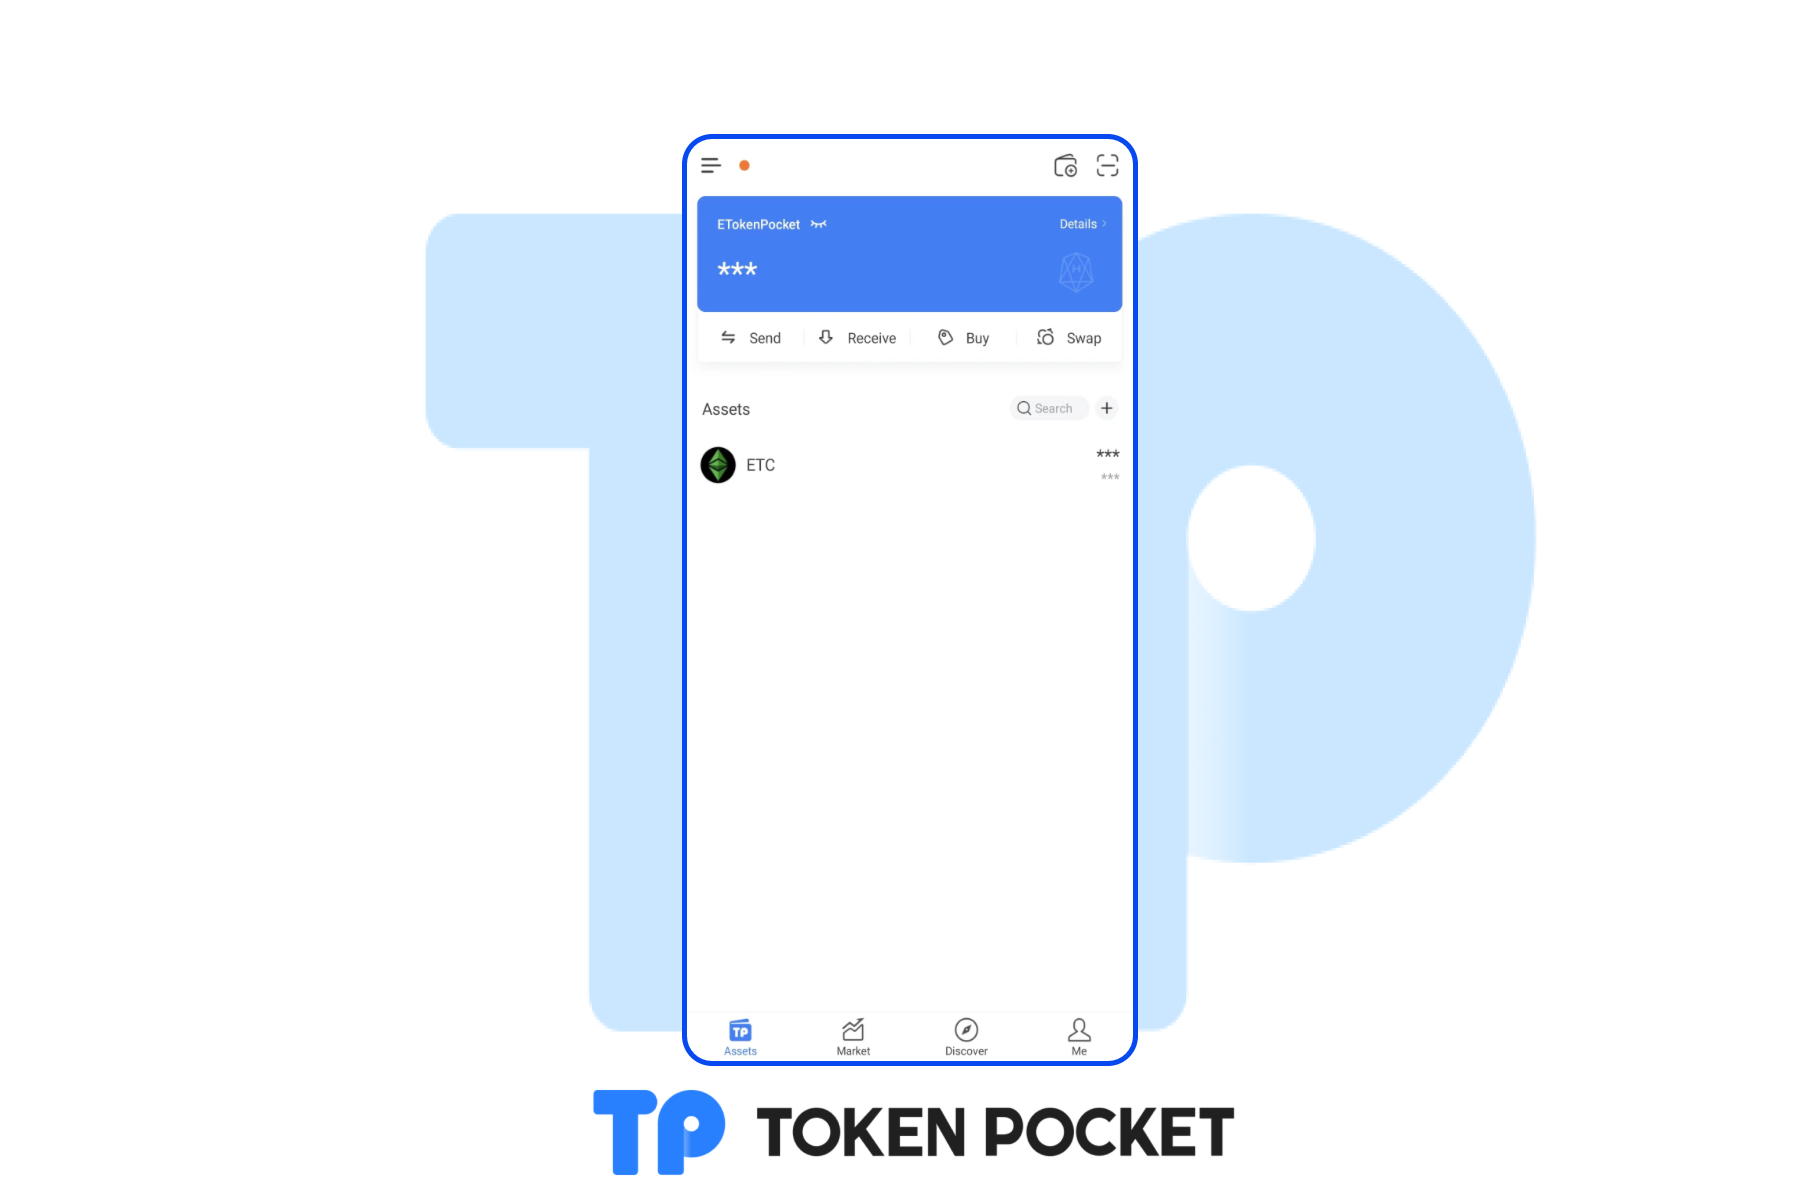
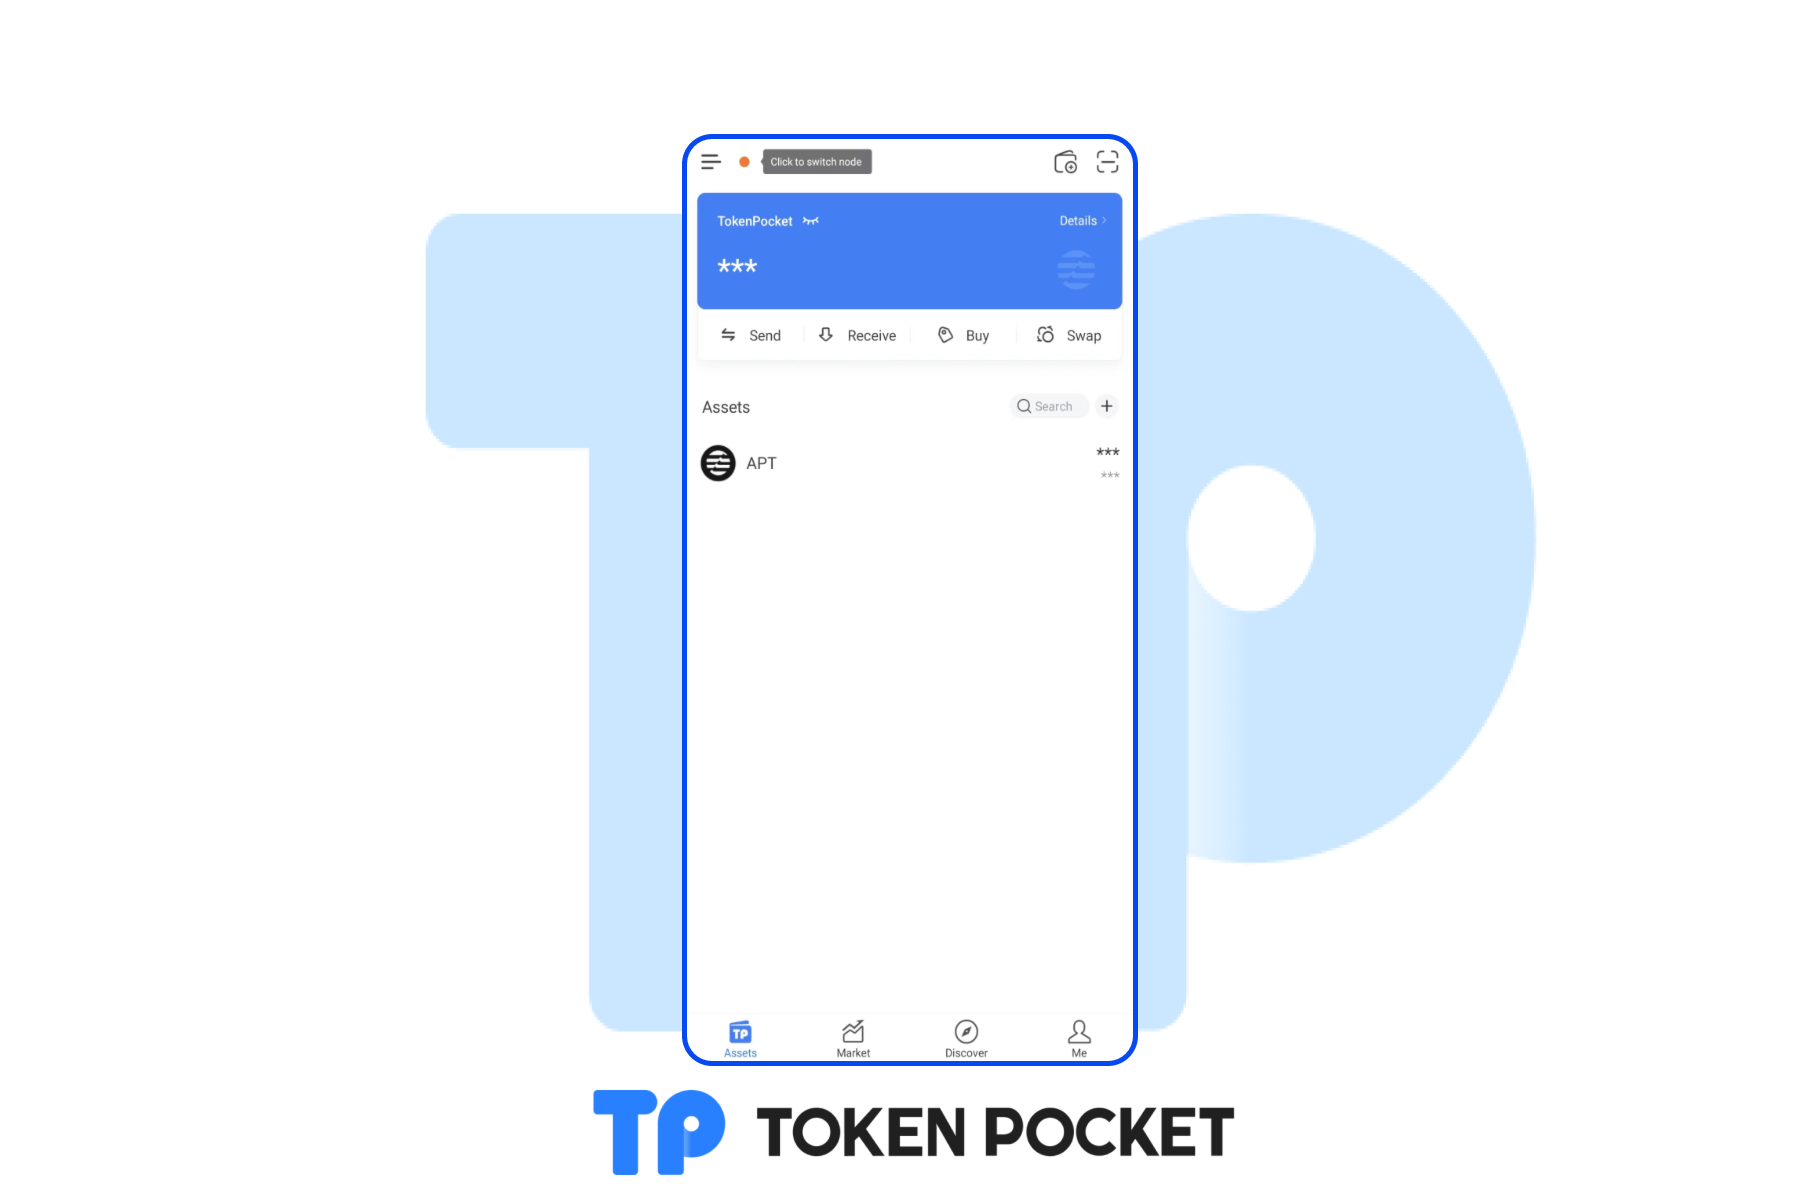
GitBook: [#845] No subject

diff --git a/wallet-operation/how-to-create-a-wallet/aptos.md b/wallet-operation/how-to-create-a-wallet/aptos.md
@@ -1,0 +1,41 @@
+# Aptos Use Guide
+
+## **How to create an** Aptos **wallet in TokenPocket?** <a href="#how-to-create-an-etc-wallet-in-tokenpocket" id="how-to-create-an-etc-wallet-in-tokenpocket"></a>
+
+1. Open TokenPocket APP, click the pattern on the upper left corner and switch the wallet network, select Aptos, click **\[Add Wallet]** and click **\[Create Wallet]**;
+
+<figure><img src="../../.gitbook/assets/aptos EN1 1.png" alt=""><figcaption></figcaption></figure>
+
+2\. Click **\[Create Wallet]** again and set the wallet name and password, click the User Agreement, and click **\[Create Wallet]**;
+
+<figure><img src="../../.gitbook/assets/aptos2 EN 2.png" alt=""><figcaption></figcaption></figure>
+
+3\. Watch and learn the video content, click **\[I got it]**, select the security tips, and click **\[Next Step]**.
+
+<figure><img src="https://659607907-files.gitbook.io/~/files/v0/b/gitbook-x-prod.appspot.com/o/spaces%2F-MMJyYRLFVRsMrfcXuRV%2Fuploads%2FmVlqrOPB2L6BC9dVj31M%2Fho%20en3.png?alt=media&#x26;token=d4945c3e-9a98-4071-bf2f-53caf6380619" alt=""><figcaption></figcaption></figure>
+
+4\. Back up the secret recovery phrase on the paper or on the **** [**KeyPal**](https://www.keypal.pro/en/), and store it in a safe place. Click **\[Completed backup, verify now]** and enter your secret recovery phrase, click **\[Confirm]**.
+
+<figure><img src="https://659607907-files.gitbook.io/~/files/v0/b/gitbook-x-prod.appspot.com/o/spaces%2F-MMJyYRLFVRsMrfcXuRV%2Fuploads%2Fi0IR6TAZdRdVIFBEUo2V%2Fho%20en4.png?alt=media&#x26;token=c94d0c86-8e7b-417e-a830-31ba537ad9c5" alt=""><figcaption></figcaption></figure>
+
+5\. At this point, you have successfully created an Aptos wallet.
+
+**Attention: Do not disclose the private key or secret recovery phrase to the third party!**
+
+<figure><img src="../../.gitbook/assets/ETC EN 5.png" alt=""><figcaption></figcaption></figure>
+
+## **How to import an** Aptos **wallet into TokenPocket?** <a href="#how-to-import-an-etc-wallet-into-tokenpocket" id="how-to-import-an-etc-wallet-into-tokenpocket"></a>
+
+1. Open TokenPocket APP, click the pattern on the upper left corner and switch the wallet network, select Arbitrum Nova, click **\[Add Wallet]** and click **\[Import Wallet]**; you can import your wallet by entering private key or secret recovery phrase.
+
+<figure><img src="../../.gitbook/assets/Aptos EN 6.png" alt=""><figcaption></figcaption></figure>
+
+2\. Take **\[Recovery Phrase import]** as an example, enter your secret recovery phrase, wallet name,  and password, click the User Agreement, and click **\[Import Wallet]**.
+
+<figure><img src="../../.gitbook/assets/aptos EN7.png" alt=""><figcaption></figcaption></figure>
+
+3\. At this point, you have successfully imported an Aptos wallet.
+
+<figure><img src="../../.gitbook/assets/ETC EN 5.png" alt=""><figcaption></figcaption></figure>
+
+## **** <a href="#how-to-sync-an-etc-wallet-in-tokenpocket" id="how-to-sync-an-etc-wallet-in-tokenpocket"></a>

diff --git a/SUMMARY.md b/SUMMARY.md
@@ -159,6 +159,7 @@
   * [How to create DApp List?](wallet-operation/how-to-create-dapp-list.md)
   * [How to collect DAPP and TIP-001 protocol?](wallet-operation/how-to-collect-dapp-and-tip-001-protocol-ios.md)
 * [How to Create a Wallet?](defi-tutorial/how-to-trade-on-dex/README.md)
+  * [Aptos Use Guide](wallet-operation/how-to-create-a-wallet/aptos.md)
   * [FON Smart Chain Use Guide](wallet-operation/how-to-create-a-wallet/FON.md)
   * [EthereumPoW Use Guide](wallet-operation/how-to-create-a-wallet/ETHW.md)
   * [EthereumFair (ETF) Use Guide](wallet-operation/how-to-create-a-wallet/ETF.md)

diff --git a/wallet-operation/how-to-create-a-wallet/etc-use-guide.md b/wallet-operation/how-to-create-a-wallet/etc-use-guide.md
@@ -22,7 +22,7 @@
 
 <mark style="color:red;">**Attention: Do not disclose the private key or secret recovery phrase to the third party!**</mark>
 
-![](<../../.gitbook/assets/ETC EN 5.png>)
+![](<../../.gitbook/assets/ETC EN 5 (1).png>)
 
 ## **How to import an ETC wallet into TokenPocket?**
 
@@ -36,7 +36,7 @@
 
 3\. At this point, you have successfully imported an ETC wallet.
 
-![](<../../.gitbook/assets/ETC EN 5.png>)
+![](<../../.gitbook/assets/ETC EN 5 (1).png>)
 
 ## **How to sync an ETC Wallet in TokenPocket?**
 
